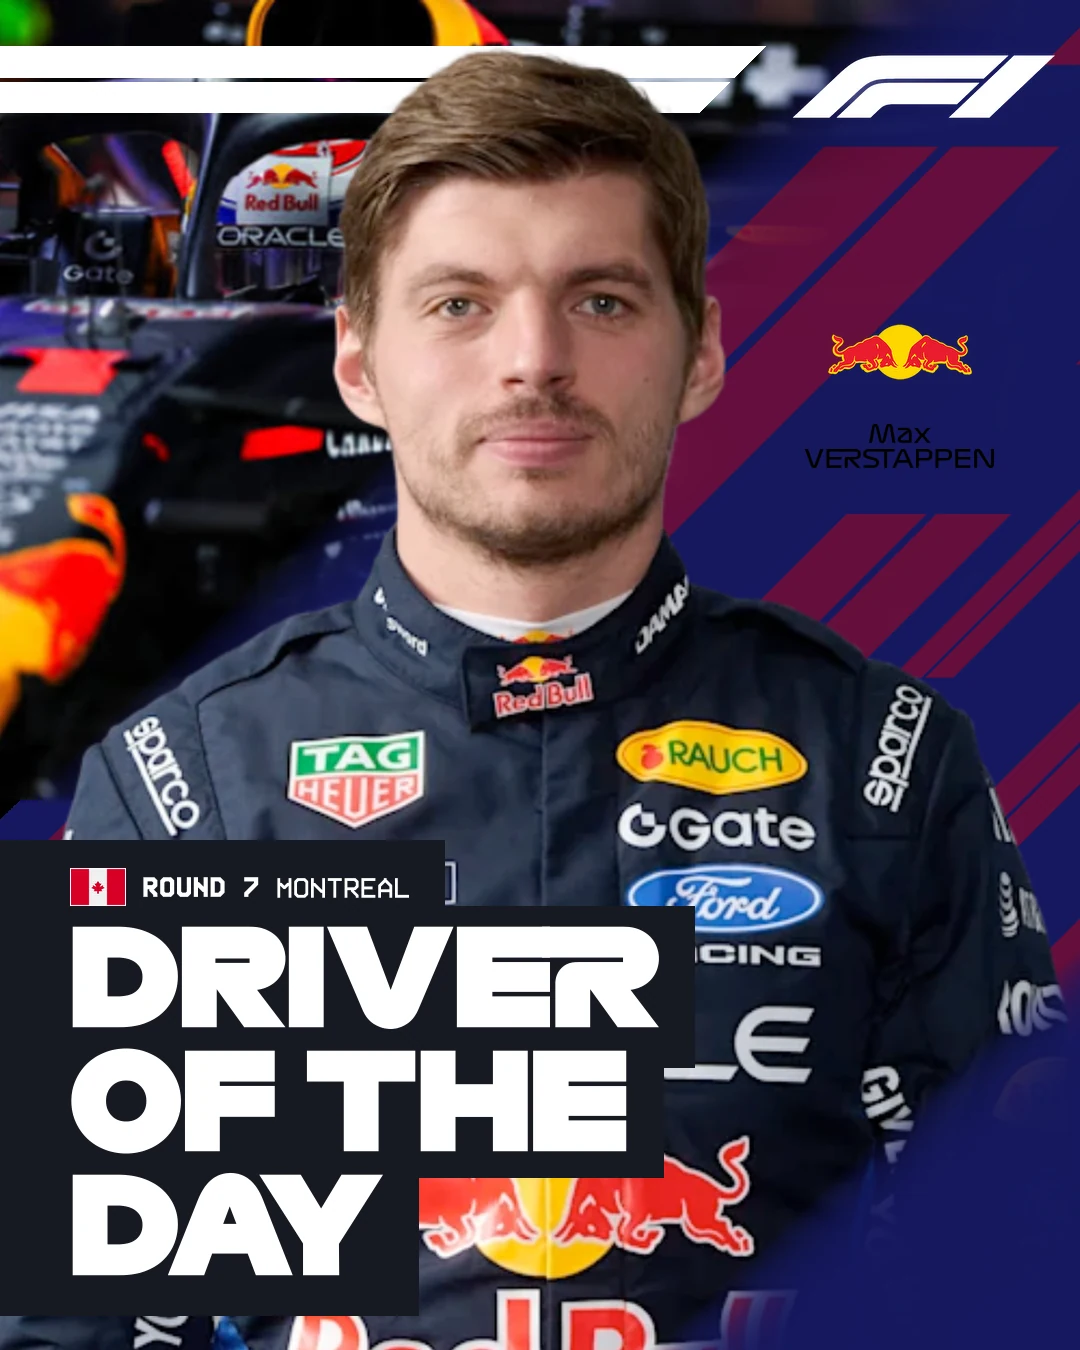
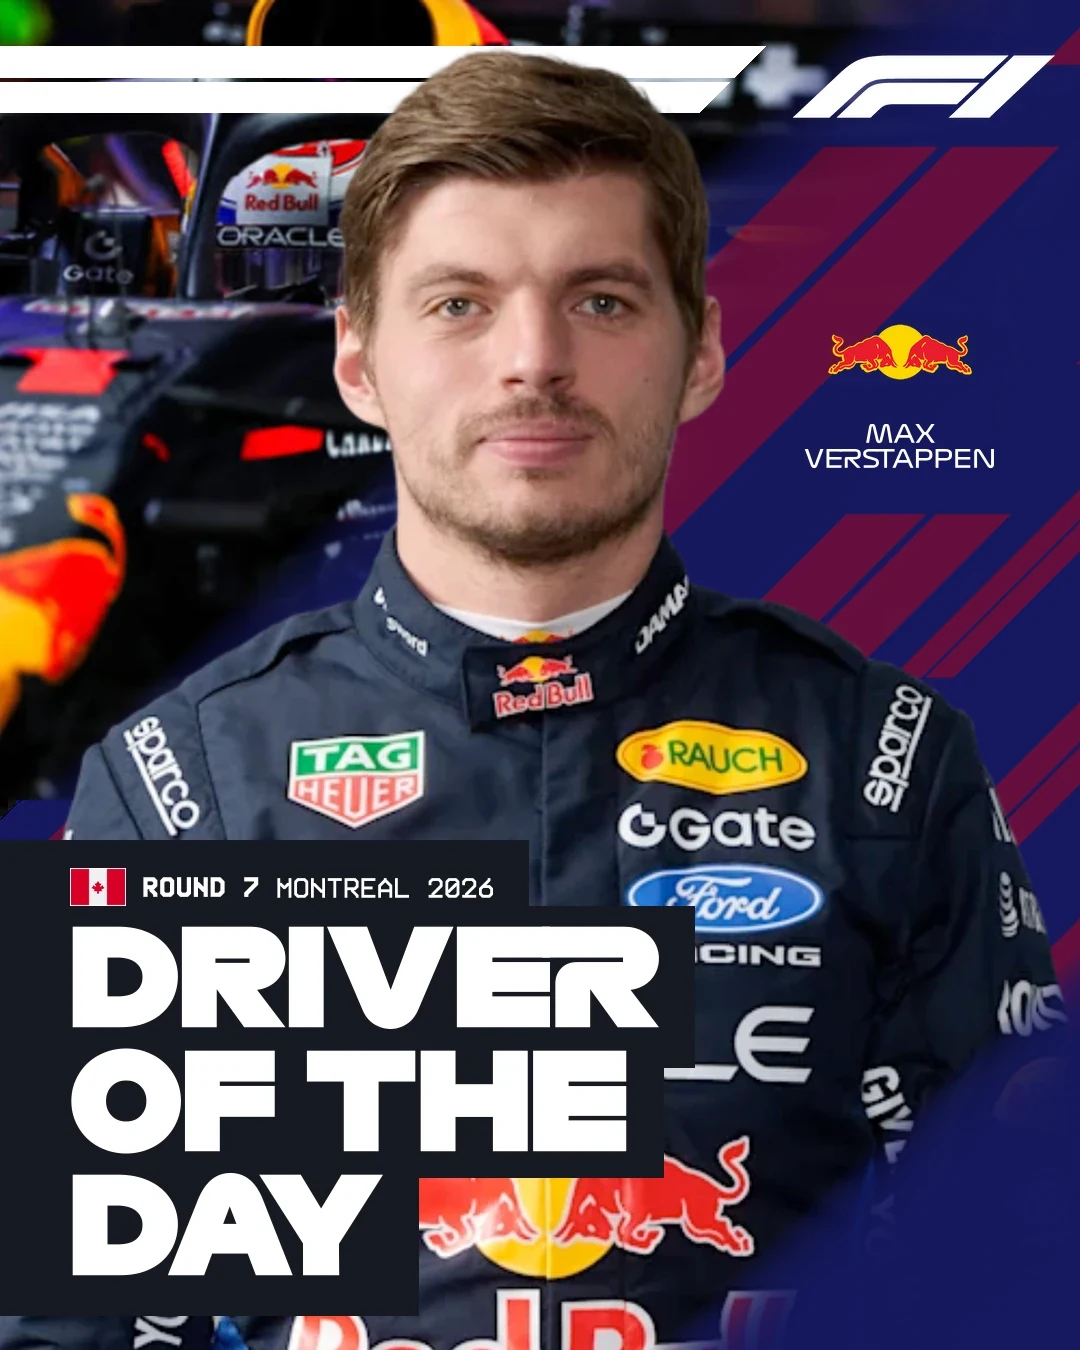
Add 5 more 2026 renders to the Gallery, refresh the DOTD image
New: Race Results Classification & Winner, Qualifying Classification: Fastest, Drivers' Championship: Leader, Constructors' Championship: Leaders, and the theme's first Line-up render (Williams). None of these duplicated an existing gallery entry - checked pixel-for-pixel against every similarly-named file first.

race-results-dotd.webp swapped for the freshly supplied version, per request (same underlying render, re-exported).

Claude-Session: https://claude.ai/code/session_01WEWdRkUQPkz2PnDqHzXaDT

Changed region(s): [[0.3972, 0.6222, 0.4889, 0.6844], [0.7639, 0.3111, 0.9167, 0.3422]]

diff --git a/docs/project-1/gallery.md b/docs/project-1/gallery.md
@@ -1,8 +1,8 @@
 # 2026 Gallery
 
-47 renders across Broadcast & Media Variable Data, Race and Qualifying
-Results, Standings, Multiseason Statistics, Ratings, the Grid and Penalties.
-Click any image to zoom in.
+52 renders across Broadcast & Media Variable Data, Race and Qualifying
+Results, Championship Standings, Line-ups, Multiseason Statistics, Ratings,
+the Grid and Penalties. Click any image to zoom in.
 
 <div class="gallery-grid" markdown="1">
 ![Broadcast Variable Data: Best Moment](gallery-images/broadcast-variable-data-best-moment.webp){: width=1400 height=788 loading=lazy }
@@ -10,10 +10,13 @@ Click any image to zoom in.
 ![Broadcast Variable Data: Fastest Lap](gallery-images/broadcast-variable-data-fastest.webp){: width=1400 height=788 loading=lazy }
 ![Broadcast Variable Data: Podium](gallery-images/broadcast-variable-data-podium.webp){: width=1400 height=788 loading=lazy }
 ![Broadcast Variable Data](gallery-images/broadcast-variable-data.webp){: width=1400 height=788 loading=lazy }
+![Constructors' Championship: Leaders](gallery-images/constructors-championship-leaders.webp){: width=1400 height=789 loading=lazy }
 ![Driver Media: Progress Standings](gallery-images/driver-media-progress-standings.webp){: width=1400 height=947 loading=lazy }
 ![Driver Media: Standings](gallery-images/driver-media-standings.webp){: width=1080 height=1350 loading=lazy }
 ![Driver Standings: Champion & Leader](gallery-images/driver-standings-champion-leader.webp){: width=919 height=1149 loading=lazy }
 ![Driver Standings: Champion](gallery-images/driver-standings-champion.webp){: width=919 height=1149 loading=lazy }
+![Drivers' Championship: Leader](gallery-images/drivers-championship-leader.webp){: width=1400 height=633 loading=lazy }
+![Line-up: Williams](gallery-images/lineup-williams.webp){: width=622 height=1200 loading=lazy }
 ![Media: Qualifying Results](gallery-images/media-qual-results.webp){: width=1120 height=1400 loading=lazy }
 ![Media: Race Results](gallery-images/media-race-results.webp){: width=1120 height=1400 loading=lazy }
 ![Multiseason Driver Details](gallery-images/multiseason-driver-details.webp){: width=1250 height=1400 loading=lazy }
@@ -27,9 +30,11 @@ Click any image to zoom in.
 ![Multiseason Track Details](gallery-images/multiseason-track-details.webp){: width=1400 height=1165 loading=lazy }
 ![Multiseason Track Overall](gallery-images/multiseason-track-overall.webp){: width=1400 height=1200 loading=lazy }
 ![Penalty](gallery-images/penalty.webp){: width=989 height=1400 loading=lazy }
+![Qualifying Classification: Fastest](gallery-images/qualifying-classification-fastest.webp){: width=1400 height=803 loading=lazy }
 ![Qualifying Results: Fastest Top 3](gallery-images/quali-results-fastest-top-3.webp){: width=1120 height=1400 loading=lazy }
 ![Qualifying Results: Front Row](gallery-images/qualifying-results-front-row.webp){: width=1120 height=1400 loading=lazy }
 ![Qualifying Results: Pole Position](gallery-images/qualifying-results-pole.webp){: width=919 height=1149 loading=lazy }
+![Race Results: Classification & Winner](gallery-images/race-results-classification-winner.webp){: width=1400 height=788 loading=lazy }
 ![Race Results: Driver of the Day](gallery-images/race-results-dotd.webp){: width=1080 height=1350 loading=lazy }
 ![Race Results: Fastest Top 3 (Sprint)](gallery-images/race-results-fastest-top-3-sprint-session.webp){: width=1120 height=1400 loading=lazy }
 ![Race Results: Fastest Top 3](gallery-images/race-results-fastest-top-3.webp){: width=1120 height=1400 loading=lazy }
